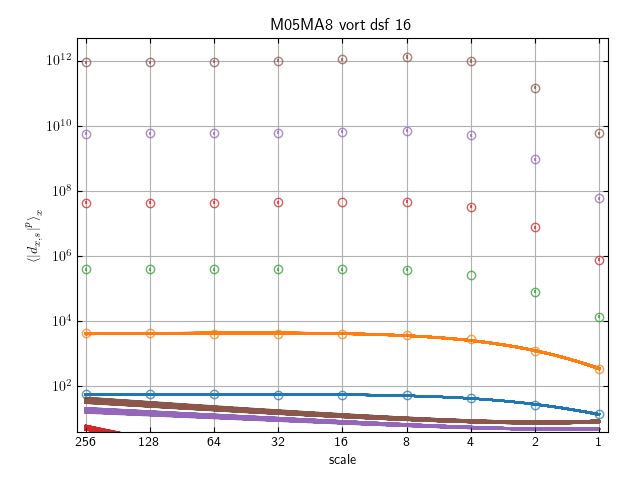
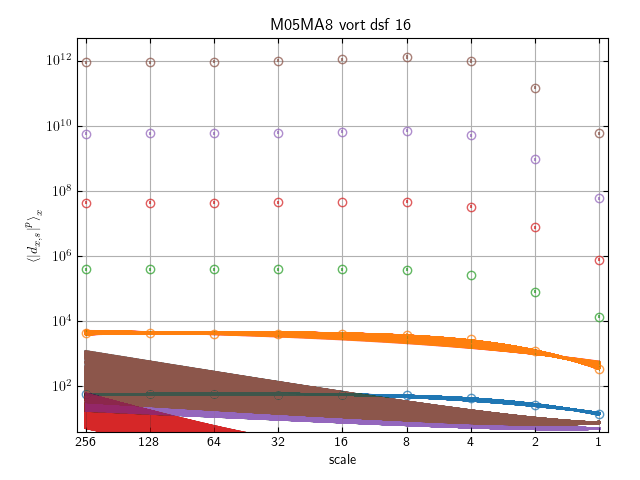
updated readme

Changed region(s): [[0.125, 0.6875, 0.9375, 0.9062], [0.375, 0.6875, 0.875, 0.75], [0.9062, 0.75, 0.9375, 0.7812]]

diff --git a/analysis/cita/sf-exp-fit-016-064.md b/analysis/cita/sf-exp-fit-016-064.md
@@ -57,21 +57,28 @@ These results are for the averagd scaling exponent computed between reference sc
 
 |M/MA| 01 | 05 | 1 | 2 | 4 | 6 | 8 | 10 |
 |----|----|----|---|---|---|---|---|----|
-| 05 |<img src="M05MA01/w4t-plot-scaling-exponent-ansatz-violin-016-064_M05MA01_avrg_dens_dsf_16-64.png">|<img src="M05MA05/w4t-plot-scaling-exponent-ansatz-violin-016-064_M05MA05_avrg_dens_dsf_16-64.png">|<img src="M05MA1/w4t-plot-scaling-exponent-ansatz-violin-016_M05MA1_avrg_dens_dsf_16.png">|<img src="M05MA2/w4t-plot-scaling-exponent-ansatz-violin-016_M05MA2_avrg_dens_dsf_16.png">|<img src="M05MA4/w4t-plot-scaling-exponent-ansatz-violin-016_M05MA4_avrg_dens_dsf_16.png">|<img src="M05MA6/w4t-plot-scaling-exponent-ansatz-violin-016_M05MA6_avrg_dens_dsf_16.png">|<img src="M05MA8/w4t-plot-scaling-exponent-ansatz-violin-016_M05MA8_avrg_dens_dsf_16.png">|<img src="M05MA10/w4t-plot-scaling-exponent-ansatz-violin-016_M05MA10_avrg_dens_dsf_16.png">|
-| 2  |<img src="M2MA01/w4t-plot-scaling-exponent-ansatz-violin-016_M2MA01_avrg_dens_dsf_16.png">|<img src="M2MA05/w4t-plot-scaling-exponent-ansatz-violin-016_M2MA05_avrg_dens_dsf_16.png">|<img src="M2MA1/w4t-plot-scaling-exponent-ansatz-violin-016_M2MA1_avrg_dens_dsf_16.png">|<img src="M2MA2/w4t-plot-scaling-exponent-ansatz-violin-016_M2MA2_avrg_dens_dsf_16.png">|<img src="M2MA4/w4t-plot-scaling-exponent-ansatz-violin-016_M2MA4_avrg_dens_dsf_16.png">|<img src="M2MA6/w4t-plot-scaling-exponent-ansatz-violin-016_M2MA6_avrg_dens_dsf_16.png">|<img src="M2MA8/w4t-plot-scaling-exponent-ansatz-violin-016_M2MA8_avrg_dens_dsf_16.png">|<img src="M2MA10/w4t-plot-scaling-exponent-ansatz-violin-016_M2MA10_avrg_dens_dsf_16.png">|
-| 4  |<img src="M4MA01/w4t-plot-scaling-exponent-ansatz-violin-016_M4MA01_avrg_dens_dsf_16.png">|<img src="M4MA05/w4t-plot-scaling-exponent-ansatz-violin-016_M4MA05_avrg_dens_dsf_16.png">|<img src="M4MA1/w4t-plot-scaling-exponent-ansatz-violin-016_M4MA1_avrg_dens_dsf_16.png">|<img src="M4MA2/w4t-plot-scaling-exponent-ansatz-violin-016_M4MA2_avrg_dens_dsf_16.png">|<img src="M4MA4/w4t-plot-scaling-exponent-ansatz-violin-016_M4MA4_avrg_dens_dsf_16.png">|<img src="M4MA6/w4t-plot-scaling-exponent-ansatz-violin-016_M4MA6_avrg_dens_dsf_16.png">|<img src="M4MA8/w4t-plot-scaling-exponent-ansatz-violin-016_M4MA8_avrg_dens_dsf_16.png">|<img src="M4MA10/w4t-plot-scaling-exponent-ansatz-violin-016_M4MA10_avrg_dens_dsf_16.png">|
-| 10 |<img src="M10MA01/w4t-plot-scaling-exponent-ansatz-violin-016_M10MA01_avrg_dens_dsf_16.png">|<img src="M10MA05/w4t-plot-scaling-exponent-ansatz-violin-016_M10MA05_avrg_dens_dsf_16.png">|<img src="M10MA1/w4t-plot-scaling-exponent-ansatz-violin-016_M10MA1_avrg_dens_dsf_16.png">|<img src="M10MA2/w4t-plot-scaling-exponent-ansatz-violin-016_M10MA2_avrg_dens_dsf_16.png">|<img src="M10MA4/w4t-plot-scaling-exponent-ansatz-violin-016_M10MA4_avrg_dens_dsf_16.png">|<img src="M10MA6/w4t-plot-scaling-exponent-ansatz-violin-016_M10MA6_avrg_dens_dsf_16.png">|<img src="M10MA8/w4t-plot-scaling-exponent-ansatz-violin-016_M10MA8_avrg_dens_dsf_16.png">|<img src="M10MA10/w4t-plot-scaling-exponent-ansatz-violin-016_M10MA10_avrg_dens_dsf_16.png">|
+| 05 |<img src="M05MA01/w4t-plot-scaling-exponent-ansatz-violin-016-064_M05MA01_avrg_dens_dsf_16-64.png">|<img src="M05MA05/w4t-plot-scaling-exponent-ansatz-violin-016-064_M05MA05_avrg_dens_dsf_16-64.png">|<img src="M05MA1/w4t-plot-scaling-exponent-ansatz-violin-016-064_M05MA1_avrg_dens_dsf_16-64.png">|<img src="M05MA2/w4t-plot-scaling-exponent-ansatz-violin-016-064_M05MA2_avrg_dens_dsf_16-64.png">|<img src="M05MA4/w4t-plot-scaling-exponent-ansatz-violin-016-064_M05MA4_avrg_dens_dsf_16-64.png">|<img src="M05MA6/w4t-plot-scaling-exponent-ansatz-violin-016-064_M05MA6_avrg_dens_dsf_16-64.png">|<img src="M05MA8/w4t-plot-scaling-exponent-ansatz-violin-016-064_M05MA8_avrg_dens_dsf_16-64.png">|<img src="M05MA10/w4t-plot-scaling-exponent-ansatz-violin-016-064_M05MA10_avrg_dens_dsf_16-64.png">|
+| 2  |<img src="M2MA01/w4t-plot-scaling-exponent-ansatz-violin-016-064_M2MA01_avrg_dens_dsf_16-64.png">|<img src="M2MA05/w4t-plot-scaling-exponent-ansatz-violin-016-064_M2MA05_avrg_dens_dsf_16-64.png">|<img src="M2MA1/w4t-plot-scaling-exponent-ansatz-violin-016-064_M2MA1_avrg_dens_dsf_16-64.png">|<img src="M2MA2/w4t-plot-scaling-exponent-ansatz-violin-016-064_M2MA2_avrg_dens_dsf_16-64.png">|<img src="M2MA4/w4t-plot-scaling-exponent-ansatz-violin-016-064_M2MA4_avrg_dens_dsf_16-64.png">|<img src="M2MA6/w4t-plot-scaling-exponent-ansatz-violin-016-064_M2MA6_avrg_dens_dsf_16-64.png">|<img src="M2MA8/w4t-plot-scaling-exponent-ansatz-violin-016-064_M2MA8_avrg_dens_dsf_16-64.png">|<img src="M2MA10/w4t-plot-scaling-exponent-ansatz-violin-016-064_M2MA10_avrg_dens_dsf_16-64.png">|
+| 4  |<img src="M4MA01/w4t-plot-scaling-exponent-ansatz-violin-016-064_M4MA01_avrg_dens_dsf_16-64.png">|<img src="M4MA05/w4t-plot-scaling-exponent-ansatz-violin-016-064_M4MA05_avrg_dens_dsf_16-64.png">|<img src="M4MA1/w4t-plot-scaling-exponent-ansatz-violin-016-064_M4MA1_avrg_dens_dsf_16-64.png">|<img src="M4MA2/w4t-plot-scaling-exponent-ansatz-violin-016-064_M4MA2_avrg_dens_dsf_16-64.png">|<img src="M4MA4/w4t-plot-scaling-exponent-ansatz-violin-016-064_M4MA4_avrg_dens_dsf_16-64.png">|<img src="M4MA6/w4t-plot-scaling-exponent-ansatz-violin-016-064_M4MA6_avrg_dens_dsf_16-64.png">|<img src="M4MA8/w4t-plot-scaling-exponent-ansatz-violin-016-064_M4MA8_avrg_dens_dsf_16-64.png">|<img src="M4MA10/w4t-plot-scaling-exponent-ansatz-violin-016-064_M4MA10_avrg_dens_dsf_16-64.png">|
+| 10 |<img src="M10MA01/w4t-plot-scaling-exponent-ansatz-violin-016-064_M10MA01_avrg_dens_dsf_16-64.png">|<img src="M10MA05/w4t-plot-scaling-exponent-ansatz-violin-016-064_M10MA05_avrg_dens_dsf_16-64.png">|<img src="M10MA1/w4t-plot-scaling-exponent-ansatz-violin-016-064_M10MA1_avrg_dens_dsf_16-64.png">|<img src="M10MA2/w4t-plot-scaling-exponent-ansatz-violin-016-064_M10MA2_avrg_dens_dsf_16-64.png">|<img src="M10MA4/w4t-plot-scaling-exponent-ansatz-violin-016-064_M10MA4_avrg_dens_dsf_16-64.png">|<img src="M10MA6/w4t-plot-scaling-exponent-ansatz-violin-016-064_M10MA6_avrg_dens_dsf_16-64.png">|<img src="M10MA8/w4t-plot-scaling-exponent-ansatz-violin-016-064_M10MA8_avrg_dens_dsf_16-64.png">|<img src="M10MA10/w4t-plot-scaling-exponent-ansatz-violin-016-064_M10MA10_avrg_dens_dsf_16-64.png">|
 
 ### Structure functions inferred assuming She-Leveque ansatz
 
 |M/MA| 01 | 05 | 1 | 2 | 4 | 6 | 8 | 10 |
 |----|----|----|---|---|---|---|---|----|
-| 05 |<img src="M05MA01/w4t-plot-scaling-exponent-ansatz_M05MA01_avrg_dens_dsf_16.png">|<img src="M05MA05/w4t-plot-scaling-exponent-ansatz_M05MA05_avrg_dens_dsf_16.png">|<img src="M05MA1/w4t-plot-scaling-exponent-ansatz_M05MA1_avrg_dens_dsf_16.png">|<img src="M05MA2/w4t-plot-scaling-exponent-ansatz_M05MA2_avrg_dens_dsf_16.png">|<img src="M05MA4/w4t-plot-scaling-exponent-ansatz_M05MA4_avrg_dens_dsf_16.png">|<img src="M05MA6/w4t-plot-scaling-exponent-ansatz_M05MA6_avrg_dens_dsf_16.png">|<img src="M05MA8/w4t-plot-scaling-exponent-ansatz_M05MA8_avrg_dens_dsf_16.png">|<img src="M05MA10/w4t-plot-scaling-exponent-ansatz_M05MA10_avrg_dens_dsf_16.png">|
-| 2  |<img src="M2MA01/w4t-plot-scaling-exponent-ansatz_M2MA01_avrg_dens_dsf_16.png">|<img src="M2MA05/w4t-plot-scaling-exponent-ansatz_M2MA05_avrg_dens_dsf_16.png">|<img src="M2MA1/w4t-plot-scaling-exponent-ansatz_M2MA1_avrg_dens_dsf_16.png">|<img src="M2MA2/w4t-plot-scaling-exponent-ansatz_M2MA2_avrg_dens_dsf_16.png">|<img src="M2MA4/w4t-plot-scaling-exponent-ansatz_M2MA4_avrg_dens_dsf_16.png">|<img src="M2MA6/w4t-plot-scaling-exponent-ansatz_M2MA6_avrg_dens_dsf_16.png">|<img src="M2MA8/w4t-plot-scaling-exponent-ansatz_M2MA8_avrg_dens_dsf_16.png">|<img src="M2MA10/w4t-plot-scaling-exponent-ansatz_M2MA10_avrg_dens_dsf_16.png">|
-| 4  |<img src="M4MA01/w4t-plot-scaling-exponent-ansatz_M4MA01_avrg_dens_dsf_16.png">|<img src="M4MA05/w4t-plot-scaling-exponent-ansatz_M4MA05_avrg_dens_dsf_16.png">|<img src="M4MA1/w4t-plot-scaling-exponent-ansatz_M4MA1_avrg_dens_dsf_16.png">|<img src="M4MA2/w4t-plot-scaling-exponent-ansatz_M4MA2_avrg_dens_dsf_16.png">|<img src="M4MA4/w4t-plot-scaling-exponent-ansatz_M4MA4_avrg_dens_dsf_16.png">|<img src="M4MA6/w4t-plot-scaling-exponent-ansatz_M4MA6_avrg_dens_dsf_16.png">|<img src="M4MA8/w4t-plot-scaling-exponent-ansatz_M4MA8_avrg_dens_dsf_16.png">|<img src="M4MA10/w4t-plot-scaling-exponent-ansatz_M4MA10_avrg_dens_dsf_16.png">|
-| 10 |<img src="M10MA01/w4t-plot-scaling-exponent-ansatz_M10MA01_avrg_dens_dsf_16.png">|<img src="M10MA05/w4t-plot-scaling-exponent-ansatz_M10MA05_avrg_dens_dsf_16.png">|<img src="M10MA1/w4t-plot-scaling-exponent-ansatz_M10MA1_avrg_dens_dsf_16.png">|<img src="M10MA2/w4t-plot-scaling-exponent-ansatz_M10MA2_avrg_dens_dsf_16.png">|<img src="M10MA4/w4t-plot-scaling-exponent-ansatz_M10MA4_avrg_dens_dsf_16.png">|<img src="M10MA6/w4t-plot-scaling-exponent-ansatz_M10MA6_avrg_dens_dsf_16.png">|<img src="M10MA8/w4t-plot-scaling-exponent-ansatz_M10MA8_avrg_dens_dsf_16.png">|<img src="M10MA10/w4t-plot-scaling-exponent-ansatz_M10MA10_avrg_dens_dsf_16.png">|
+| 05 |<img src="M05MA01/w4t-plot-scaling-exponent-ansatz_M05MA01_avrg_dens_dsf_16-64.png">|<img src="M05MA05/w4t-plot-scaling-exponent-ansatz_M05MA05_avrg_dens_dsf_16-64.png">|<img src="M05MA1/w4t-plot-scaling-exponent-ansatz_M05MA1_avrg_dens_dsf_16-64.png">|<img src="M05MA2/w4t-plot-scaling-exponent-ansatz_M05MA2_avrg_dens_dsf_16-64.png">|<img src="M05MA4/w4t-plot-scaling-exponent-ansatz_M05MA4_avrg_dens_dsf_16-64.png">|<img src="M05MA6/w4t-plot-scaling-exponent-ansatz_M05MA6_avrg_dens_dsf_16-64.png">|<img src="M05MA8/w4t-plot-scaling-exponent-ansatz_M05MA8_avrg_dens_dsf_16-64.png">|<img src="M05MA10/w4t-plot-scaling-exponent-ansatz_M05MA10_avrg_dens_dsf_16-64.png">|
+| 2  |<img src="M2MA01/w4t-plot-scaling-exponent-ansatz_M2MA01_avrg_dens_dsf_16-64.png">|<img src="M2MA05/w4t-plot-scaling-exponent-ansatz_M2MA05_avrg_dens_dsf_16-64.png">|<img src="M2MA1/w4t-plot-scaling-exponent-ansatz_M2MA1_avrg_dens_dsf_16-64.png">|<img src="M2MA2/w4t-plot-scaling-exponent-ansatz_M2MA2_avrg_dens_dsf_16-64.png">|<img src="M2MA4/w4t-plot-scaling-exponent-ansatz_M2MA4_avrg_dens_dsf_16-64.png">|<img src="M2MA6/w4t-plot-scaling-exponent-ansatz_M2MA6_avrg_dens_dsf_16-64.png">|<img src="M2MA8/w4t-plot-scaling-exponent-ansatz_M2MA8_avrg_dens_dsf_16-64.png">|<img src="M2MA10/w4t-plot-scaling-exponent-ansatz_M2MA10_avrg_dens_dsf_16-64.png">|
+| 4  |<img src="M4MA01/w4t-plot-scaling-exponent-ansatz_M4MA01_avrg_dens_dsf_16-64.png">|<img src="M4MA05/w4t-plot-scaling-exponent-ansatz_M4MA05_avrg_dens_dsf_16-64.png">|<img src="M4MA1/w4t-plot-scaling-exponent-ansatz_M4MA1_avrg_dens_dsf_16-64.png">|<img src="M4MA2/w4t-plot-scaling-exponent-ansatz_M4MA2_avrg_dens_dsf_16-64.png">|<img src="M4MA4/w4t-plot-scaling-exponent-ansatz_M4MA4_avrg_dens_dsf_16-64.png">|<img src="M4MA6/w4t-plot-scaling-exponent-ansatz_M4MA6_avrg_dens_dsf_16-64.png">|<img src="M4MA8/w4t-plot-scaling-exponent-ansatz_M4MA8_avrg_dens_dsf_16-64.png">|<img src="M4MA10/w4t-plot-scaling-exponent-ansatz_M4MA10_avrg_dens_dsf_16-64.png">|
+| 10 |<img src="M10MA01/w4t-plot-scaling-exponent-ansatz_M10MA01_avrg_dens_dsf_16-64.png">|<img src="M10MA05/w4t-plot-scaling-exponent-ansatz_M10MA05_avrg_dens_dsf_16-64.png">|<img src="M10MA1/w4t-plot-scaling-exponent-ansatz_M10MA1_avrg_dens_dsf_16-64.png">|<img src="M10MA2/w4t-plot-scaling-exponent-ansatz_M10MA2_avrg_dens_dsf_16-64.png">|<img src="M10MA4/w4t-plot-scaling-exponent-ansatz_M10MA4_avrg_dens_dsf_16-64.png">|<img src="M10MA6/w4t-plot-scaling-exponent-ansatz_M10MA6_avrg_dens_dsf_16-64.png">|<img src="M10MA8/w4t-plot-scaling-exponent-ansatz_M10MA8_avrg_dens_dsf_16-64.png">|<img src="M10MA10/w4t-plot-scaling-exponent-ansatz_M10MA10_avrg_dens_dsf_16-64.png">|
 
 ### Logarithmic derivatives of structure functions inferred assuming She-Leveque ansatz
+
+|M/MA| 01 | 05 | 1 | 2 | 4 | 6 | 8 | 10 |
+|----|----|----|---|---|---|---|---|----|
+| 05 |<img src="M05MA01/w4t-plot-scaling-exponent-ansatz-dlogSdlog_M05MA01_avrg_dens_dsf_16-64.png">|<img src="M05MA05/w4t-plot-scaling-exponent-ansatz-dlogSdlog_M05MA05_avrg_dens_dsf_16-64.png">|<img src="M05MA1/w4t-plot-scaling-exponent-ansatz-dlogSdlog_M05MA1_avrg_dens_dsf_16-64.png">|<img src="M05MA2/w4t-plot-scaling-exponent-ansatz-dlogSdlog_M05MA2_avrg_dens_dsf_16-64.png">|<img src="M05MA4/w4t-plot-scaling-exponent-ansatz-dlogSdlog_M05MA4_avrg_dens_dsf_16-64.png">|<img src="M05MA6/w4t-plot-scaling-exponent-ansatz-dlogSdlog_M05MA6_avrg_dens_dsf_16-64.png">|<img src="M05MA8/w4t-plot-scaling-exponent-ansatz-dlogSdlog_M05MA8_avrg_dens_dsf_16-64.png">|<img src="M05MA10/w4t-plot-scaling-exponent-ansatz-dlogSdlog_M05MA10_avrg_dens_dsf_16-64.png">|
+| 2  |<img src="M2MA01/w4t-plot-scaling-exponent-ansatz-dlogSdlog_M2MA01_avrg_dens_dsf_16-64.png">|<img src="M2MA05/w4t-plot-scaling-exponent-ansatz-dlogSdlog_M2MA05_avrg_dens_dsf_16-64.png">|<img src="M2MA1/w4t-plot-scaling-exponent-ansatz-dlogSdlog_M2MA1_avrg_dens_dsf_16-64.png">|<img src="M2MA2/w4t-plot-scaling-exponent-ansatz-dlogSdlog_M2MA2_avrg_dens_dsf_16-64.png">|<img src="M2MA4/w4t-plot-scaling-exponent-ansatz-dlogSdlog_M2MA4_avrg_dens_dsf_16-64.png">|<img src="M2MA6/w4t-plot-scaling-exponent-ansatz-dlogSdlog_M2MA6_avrg_dens_dsf_16-64.png">|<img src="M2MA8/w4t-plot-scaling-exponent-ansatz-dlogSdlog_M2MA8_avrg_dens_dsf_16-64.png">|<img src="M2MA10/w4t-plot-scaling-exponent-ansatz-dlogSdlog_M2MA10_avrg_dens_dsf_16-64.png">|
+| 4  |<img src="M4MA01/w4t-plot-scaling-exponent-ansatz-dlogSdlog_M4MA01_avrg_dens_dsf_16-64.png">|<img src="M4MA05/w4t-plot-scaling-exponent-ansatz-dlogSdlog_M4MA05_avrg_dens_dsf_16-64.png">|<img src="M4MA1/w4t-plot-scaling-exponent-ansatz-dlogSdlog_M4MA1_avrg_dens_dsf_16-64.png">|<img src="M4MA2/w4t-plot-scaling-exponent-ansatz-dlogSdlog_M4MA2_avrg_dens_dsf_16-64.png">|<img src="M4MA4/w4t-plot-scaling-exponent-ansatz-dlogSdlog_M4MA4_avrg_dens_dsf_16-64.png">|<img src="M4MA6/w4t-plot-scaling-exponent-ansatz-dlogSdlog_M4MA6_avrg_dens_dsf_16-64.png">|<img src="M4MA8/w4t-plot-scaling-exponent-ansatz-dlogSdlog_M4MA8_avrg_dens_dsf_16-64.png">|<img src="M4MA10/w4t-plot-scaling-exponent-ansatz-dlogSdlog_M4MA10_avrg_dens_dsf_16-64.png">|
+| 10 |<img src="M10MA01/w4t-plot-scaling-exponent-ansatz-dlogSdlog_M10MA01_avrg_dens_dsf_16-64.png">|<img src="M10MA05/w4t-plot-scaling-exponent-ansatz-dlogSdlog_M10MA05_avrg_dens_dsf_16-64.png">|<img src="M10MA1/w4t-plot-scaling-exponent-ansatz-dlogSdlog_M10MA1_avrg_dens_dsf_16-64.png">|<img src="M10MA2/w4t-plot-scaling-exponent-ansatz-dlogSdlog_M10MA2_avrg_dens_dsf_16-64.png">|<img src="M10MA4/w4t-plot-scaling-exponent-ansatz-dlogSdlog_M10MA4_avrg_dens_dsf_16-64.png">|<img src="M10MA6/w4t-plot-scaling-exponent-ansatz-dlogSdlog_M10MA6_avrg_dens_dsf_16-64.png">|<img src="M10MA8/w4t-plot-scaling-exponent-ansatz-dlogSdlog_M10MA8_avrg_dens_dsf_16-64.png">|<img src="M10MA10/w4t-plot-scaling-exponent-ansatz-dlogSdlog_M10MA10_avrg_dens_dsf_16-64.png">|
 
 ## Velocity
 
